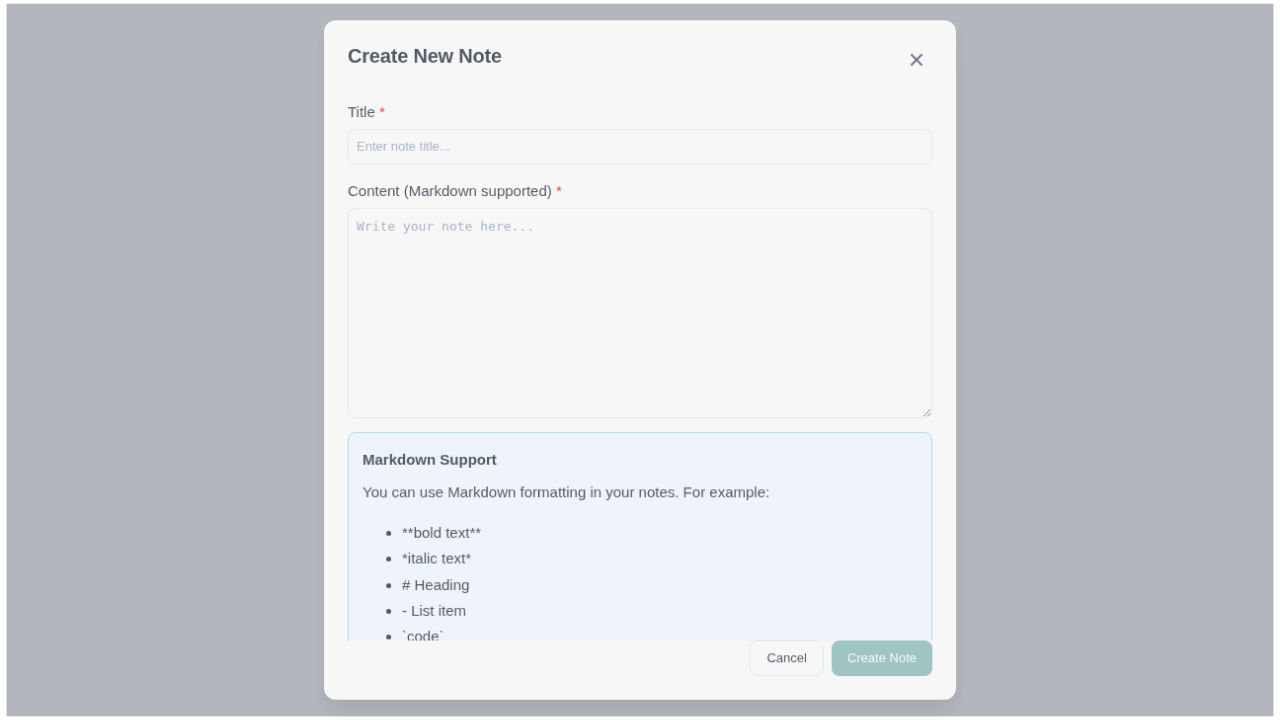
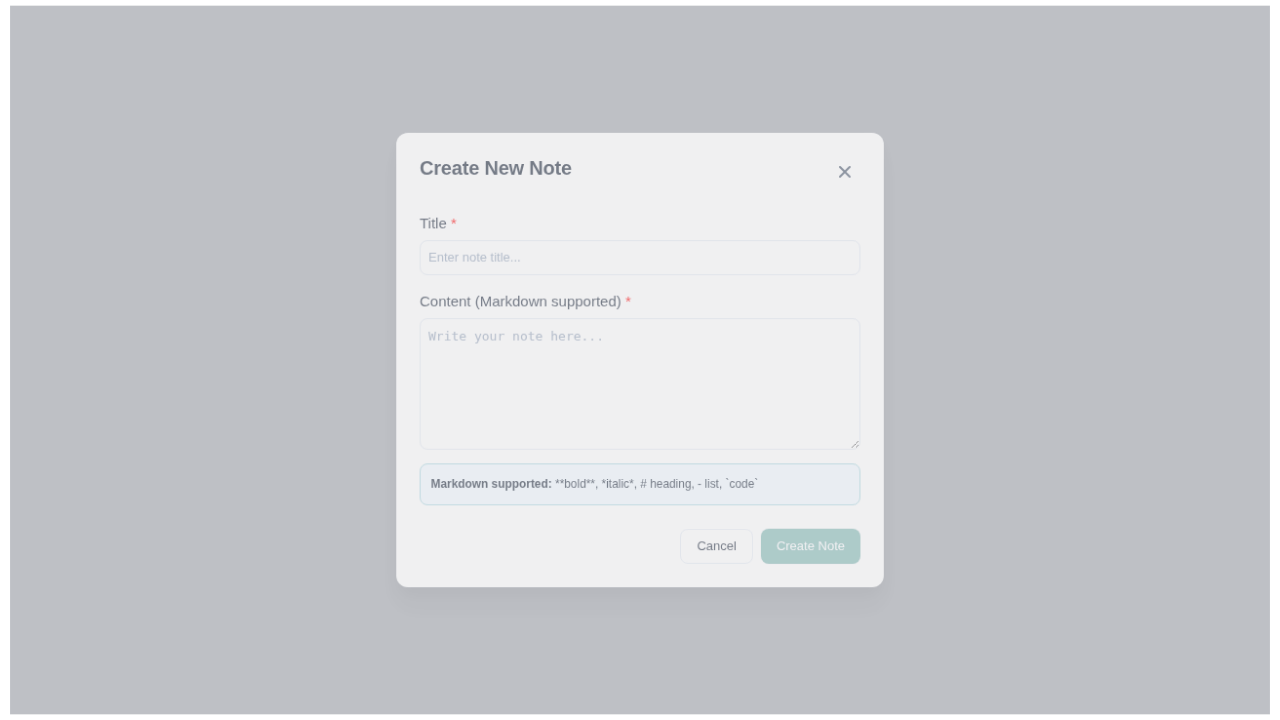
Fix NewNoteModal overflow and UserSettingsModal missing badge mock
- NewNoteModal: reduce textarea rows 10→6, condense markdown help to
  single line, use size="md" to prevent content overflow into footer
- UserSettingsModal test: add GET_USER_BADGES mock to prevent red
  "Error loading badges" in screenshot

Changed region(s): [[0.0, 0.0, 1.0, 1.0], [0.3438, 0.4583, 0.4375, 0.4889], [0.5312, 0.7333, 0.5625, 0.7639]]

diff --git a/frontend/src/components/knowledge_base/document/NewNoteModal.tsx b/frontend/src/components/knowledge_base/document/NewNoteModal.tsx
@@ -77,7 +77,7 @@ export const NewNoteModal: React.FC<NewNoteModalProps> = ({
   };
 
   return (
-    <Modal open={isOpen} onClose={handleClose} size="lg">
+    <Modal open={isOpen} onClose={handleClose} size="md">
       <ModalHeader title="Create New Note" onClose={handleClose} />
       <ModalBody>
         <div style={{ marginBottom: "1rem" }}>
@@ -107,32 +107,22 @@ export const NewNoteModal: React.FC<NewNoteModalProps> = ({
             placeholder="Write your note here..."
             value={content}
             onChange={(e) => setContent(e.target.value)}
-            rows={10}
+            rows={6}
             disabled={loading}
             style={{ fontFamily: "monospace" }}
           />
         </div>
         <div
           style={{
-            padding: "1rem",
+            padding: "0.75rem",
             background: "#eef6fc",
             border: "1px solid #a9d5de",
             borderRadius: "8px",
+            fontSize: "0.85rem",
           }}
         >
-          <div style={{ fontWeight: 600, marginBottom: "0.5rem" }}>
-            Markdown Support
-          </div>
-          <div>
-            You can use Markdown formatting in your notes. For example:
-            <ul>
-              <li>**bold text**</li>
-              <li>*italic text*</li>
-              <li># Heading</li>
-              <li>- List item</li>
-              <li>`code`</li>
-            </ul>
-          </div>
+          <strong>Markdown supported:</strong> **bold**, *italic*, # heading, -
+          list, `code`
         </div>
       </ModalBody>
       <ModalFooter>

diff --git a/frontend/tests/UserSettingsModal.ct.tsx b/frontend/tests/UserSettingsModal.ct.tsx
@@ -2,11 +2,33 @@ import React from "react";
 import { test, expect } from "@playwright/experimental-ct-react";
 import { MockedResponse } from "@apollo/client/testing";
 import { UPDATE_ME } from "../src/graphql/mutations";
+import { GET_USER_BADGES } from "../src/graphql/queries";
 import UserSettingsModalHarness from "./UserSettingsModalHarness";
 import { docScreenshot } from "./utils/docScreenshot";
 
+const badgesMock: MockedResponse = {
+  request: {
+    query: GET_USER_BADGES,
+    variables: { userId: "user-1", corpusId: undefined, limit: 100 },
+  },
+  result: {
+    data: {
+      userBadges: {
+        edges: [],
+        pageInfo: {
+          hasNextPage: false,
+          hasPreviousPage: false,
+          startCursor: null,
+          endCursor: null,
+        },
+      },
+    },
+  },
+};
+
 test("@slug profile modal updates user slug", async ({ mount, page }) => {
   const mocks: ReadonlyArray<MockedResponse> = [
+    badgesMock,
     {
       request: {
         query: UPDATE_ME,

diff --git a/frontend/tests/NewNoteModal.ct.tsx b/frontend/tests/NewNoteModal.ct.tsx
@@ -71,10 +71,8 @@ test.describe("NewNoteModal - Rendering", () => {
       page.locator('textarea[placeholder="Write your note here..."]')
     ).toBeVisible();
 
-    // Markdown support info box should be visible
-    await expect(
-      page.getByText("Markdown Support", { exact: true })
-    ).toBeVisible();
+    // Markdown support info should be visible
+    await expect(page.getByText("Markdown supported:")).toBeVisible();
 
     // Action buttons should be present
     await expect(page.locator('button:has-text("Cancel")')).toBeVisible();
